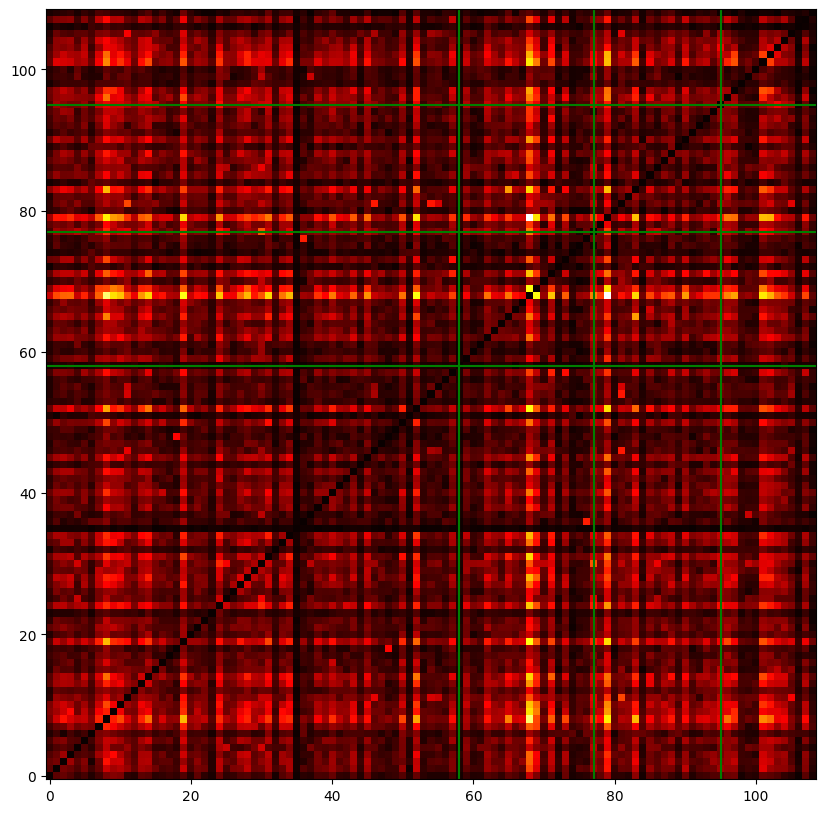
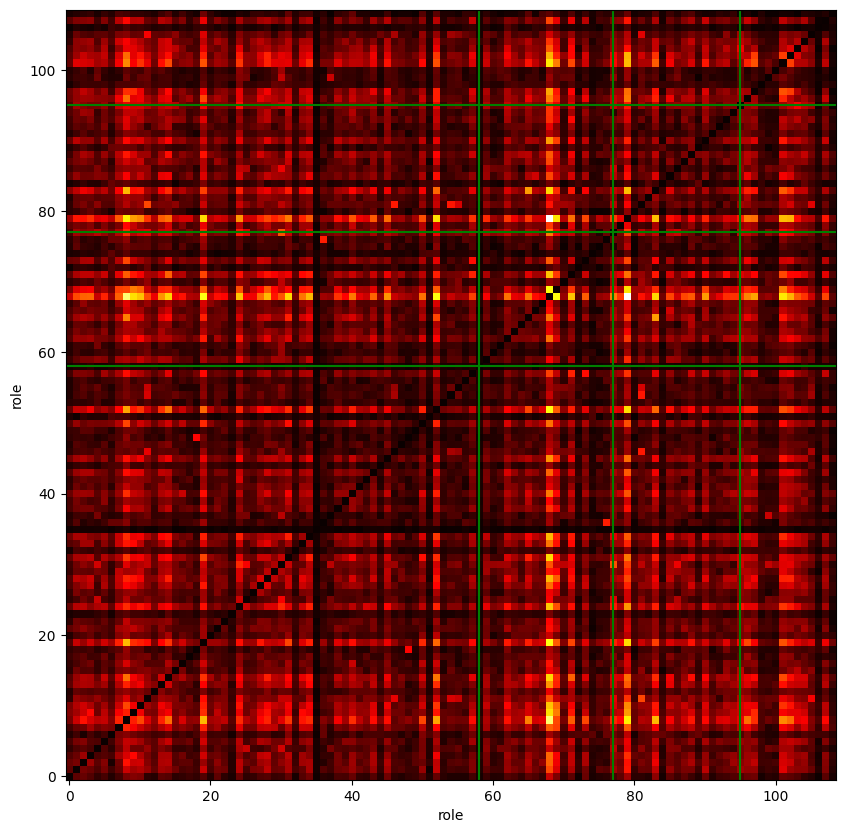
fix script tool compat

diff --git a/ScriptMonger.py b/ScriptMonger.py
@@ -35,9 +35,9 @@ async def on_message(message):
 	m = message.content.lower()
 	if m.startswith('\data'):
 		statsPath = os.path.join(path, "stats")
-		await message.channel.send(content="heatmap.png", file=discord.File(fp=os.path.join(statsPath, "heatmap.png")))					
+		await message.channel.send(content="heatmap of (role1,role2) frequencies", file=discord.File(fp=os.path.join(statsPath, "heatmap.png")))					
 		await message.channel.send(content="heatmap.xlsx", file=discord.File(fp=os.path.join(statsPath, "heatmap.xlsx")))					
-		await message.channel.send(content="sao.png", file=discord.File(fp=os.path.join(statsPath, "sao.png")))	
+		await message.channel.send(content="distribution of Standard Amy Order", file=discord.File(fp=os.path.join(statsPath, "sao.png")))	
 		return
 	
 	if not m.startswith('\gen'):
@@ -60,7 +60,7 @@ async def on_message(message):
 	
 	await message.channel.send(script.__repr__())
 	
-	f = io.StringIO(script.ToolScript().__repr__())
+	f = io.StringIO(script.ToolScript())
 	await message.channel.send(content="", file=discord.File(fp=f, filename="script_"+script.ID()+".json"))		
 
 client.run(os.getenv('DISCORD_TOKEN'))

diff --git a/Script.py b/Script.py
@@ -143,6 +143,8 @@ class Data:
 			plt.axvline(x=v,color='green')
 			plt.axhline(y=v,color='green')
 		plt.gca().invert_yaxis()
+		plt.ylabel("role")
+		plt.xlabel("role")
 		plt.savefig(os.path.join(self.path,"stats","heatmap.png"), bbox_inches="tight")		   
 
 		# write heatmap as xlsx, with role names included
@@ -170,6 +172,7 @@ class Data:
 			else:
 				keys.append("other")
 		plt.bar(keys, self.amyDist.values())
+		plt.ylabel("frequency")
 		plt.savefig(os.path.join(self.path,"stats","sao.png"), bbox_inches="tight")		
 		plt.clf()
 		
@@ -285,7 +288,7 @@ class Script:
 		roles = self.SAOsort(self.ListRoles())
 		for role in roles:
 			j.append({"id":role})
-		return j
+		return json.dumps(j)
 	
 	def Save(self):
 		# save in json format compatible with clocktower.online
